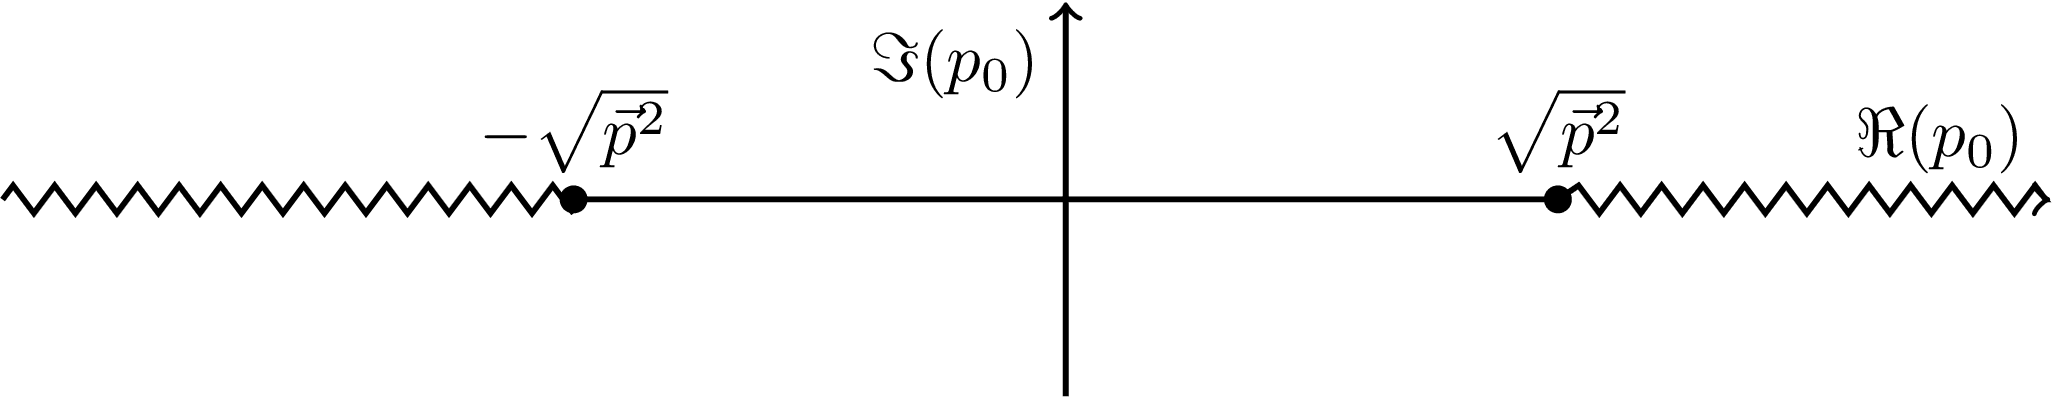
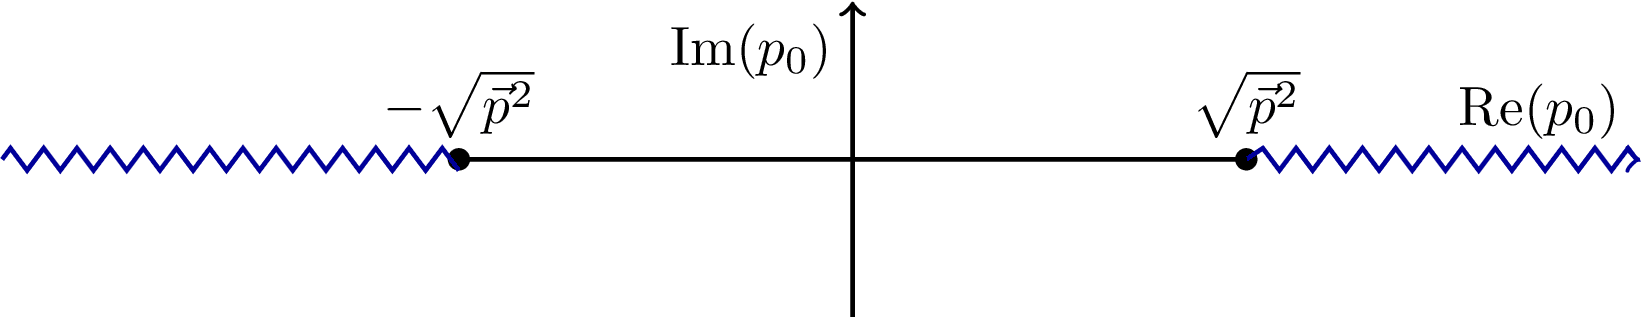
branch-cut.tex better \Im + \Re operators

diff --git a/assets/branch-cuts/branch-cuts.tex b/assets/branch-cuts/branch-cuts.tex
@@ -1,19 +1,27 @@
-\documentclass[tikz,svgnames]{standalone}
+\documentclass[tikz]{standalone}
+
+\usepackage{mathtools}
+
+\let\Im\relax
+\DeclareMathOperator{\Im}{Im}
+\let\Re\relax
+\DeclareMathOperator{\Re}{Re}
 
 \usetikzlibrary{decorations.pathmorphing}
+
+\def\xr{5}
+\def\yr{1}
 
 \begin{document}
 \begin{tikzpicture}[thick]
 
-  \def\xr{5} \def\yr{1}
-
   % Labels
-  \fill (-\xr/2,0) circle (2pt) node[above] (leftbranch) {$-\sqrt{\vec{p}^2}$} (\xr/2,0) circle (2pt) node[above] (rightbranch) {$\sqrt{\vec{p}^2}$};
+  \fill(-\xr/2, 0) circle (2pt) node[above] (l_branch) {$-\sqrt{\vec{p}^2}$} (\xr/2, 0) circle (2pt) node[above] (r_branch) {$\sqrt{\vec{p}^2}$};
 
   % Axes
-  \draw [->,decorate,decoration={zigzag,segment length=6,amplitude=2}] (-\xr-0.4,0) -- (leftbranch.south) (rightbranch.south) -- (\xr,0) node [above left]  {$\Re(p_0)$};
-  \draw (leftbranch.south) -- (rightbranch.south);
-  \draw [->] (0,-\yr) -- (0,\yr) node[below left=0.1] {$\Im(p_0)$};
+  \draw[->, decorate, decoration={zigzag, segment length=6, amplitude=2}, blue!60!black] (-\xr-0.4, 0) -- (l_branch.south) (r_branch.south) -- (\xr, 0) node [above left, black]  {$\Re(p_0)$};
+  \draw(l_branch.south) -- (r_branch.south);
+  \draw[->] (0, -\yr) -- (0, \yr) node[below left=0.1] {$\Im(p_0)$};
 
 \end{tikzpicture}
 \end{document}
